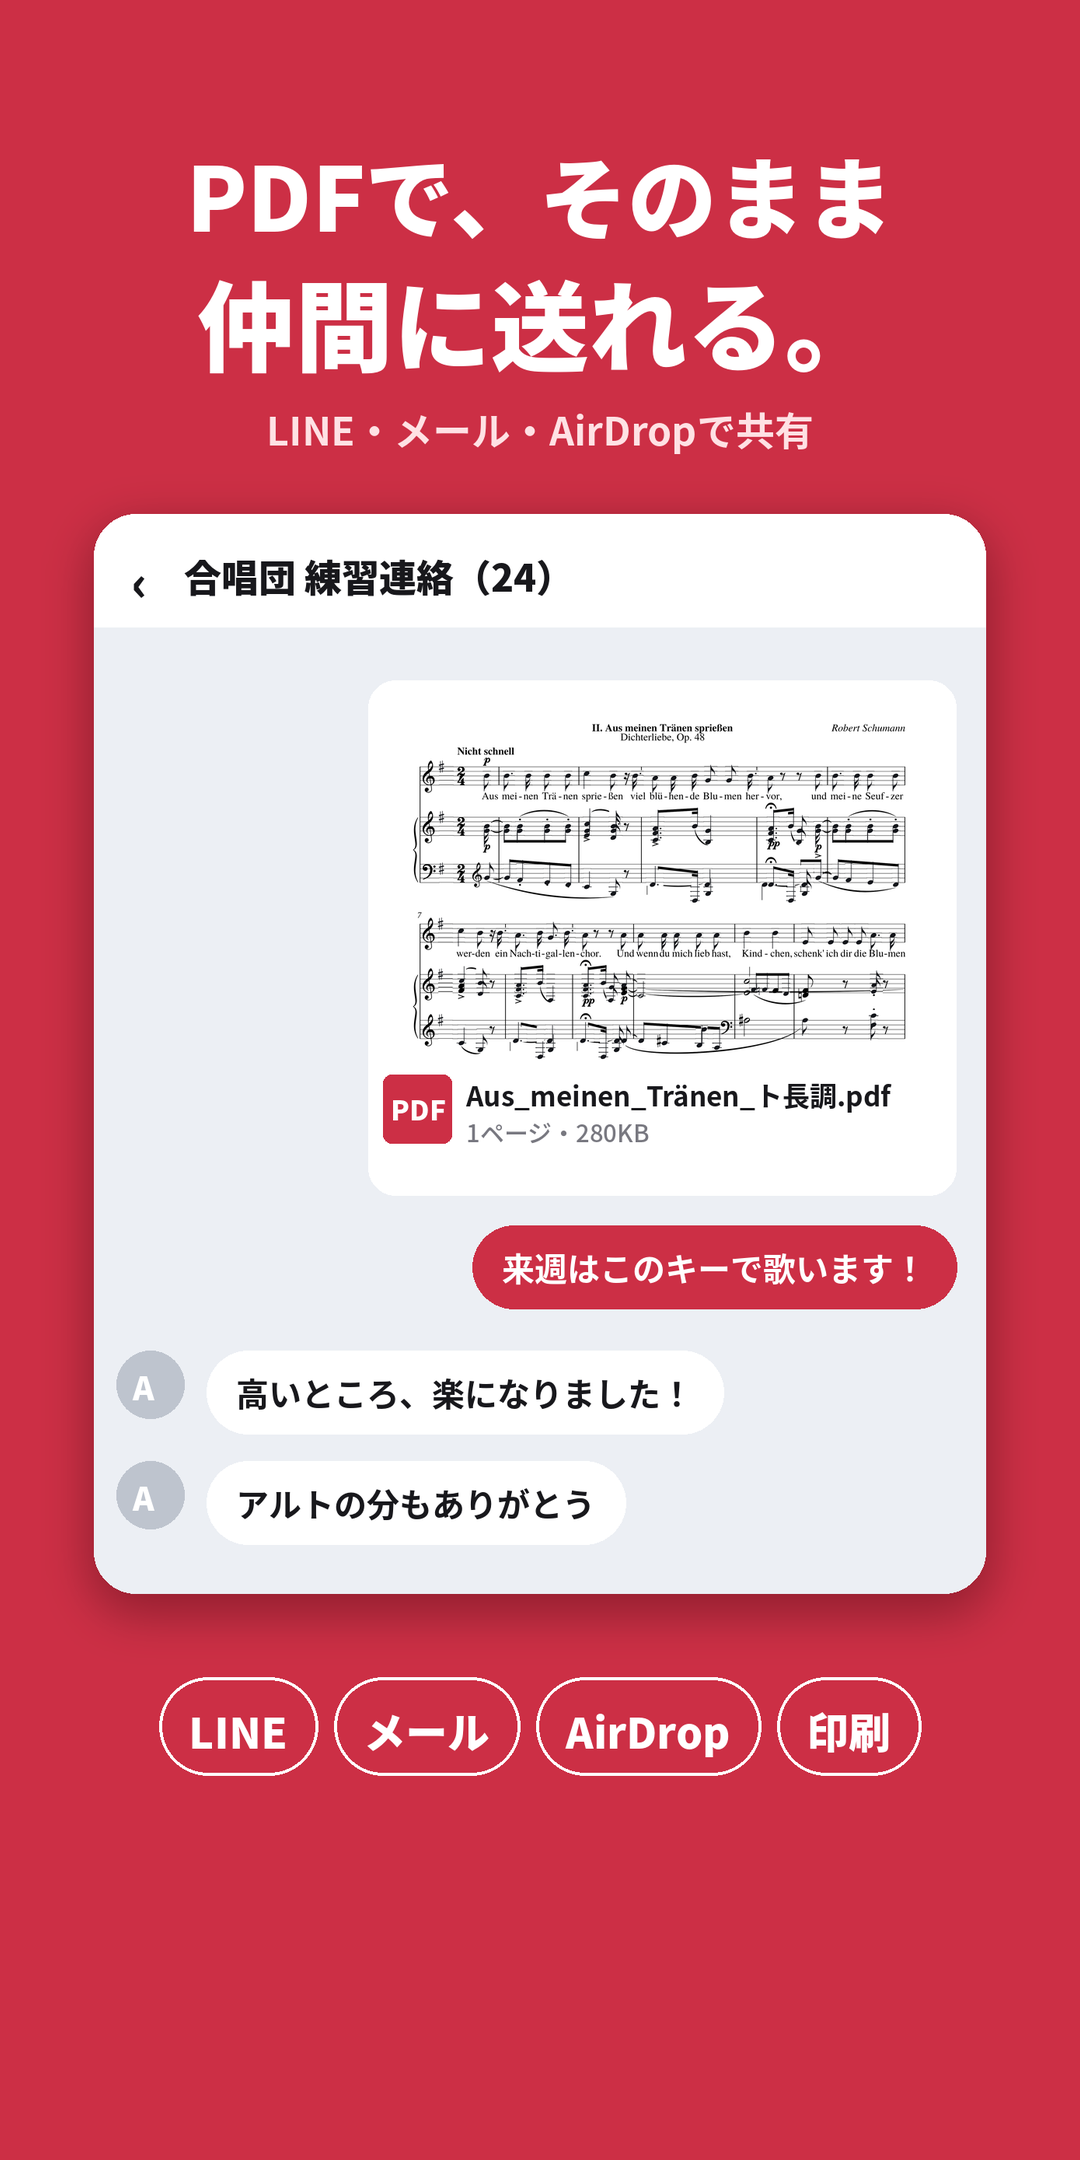
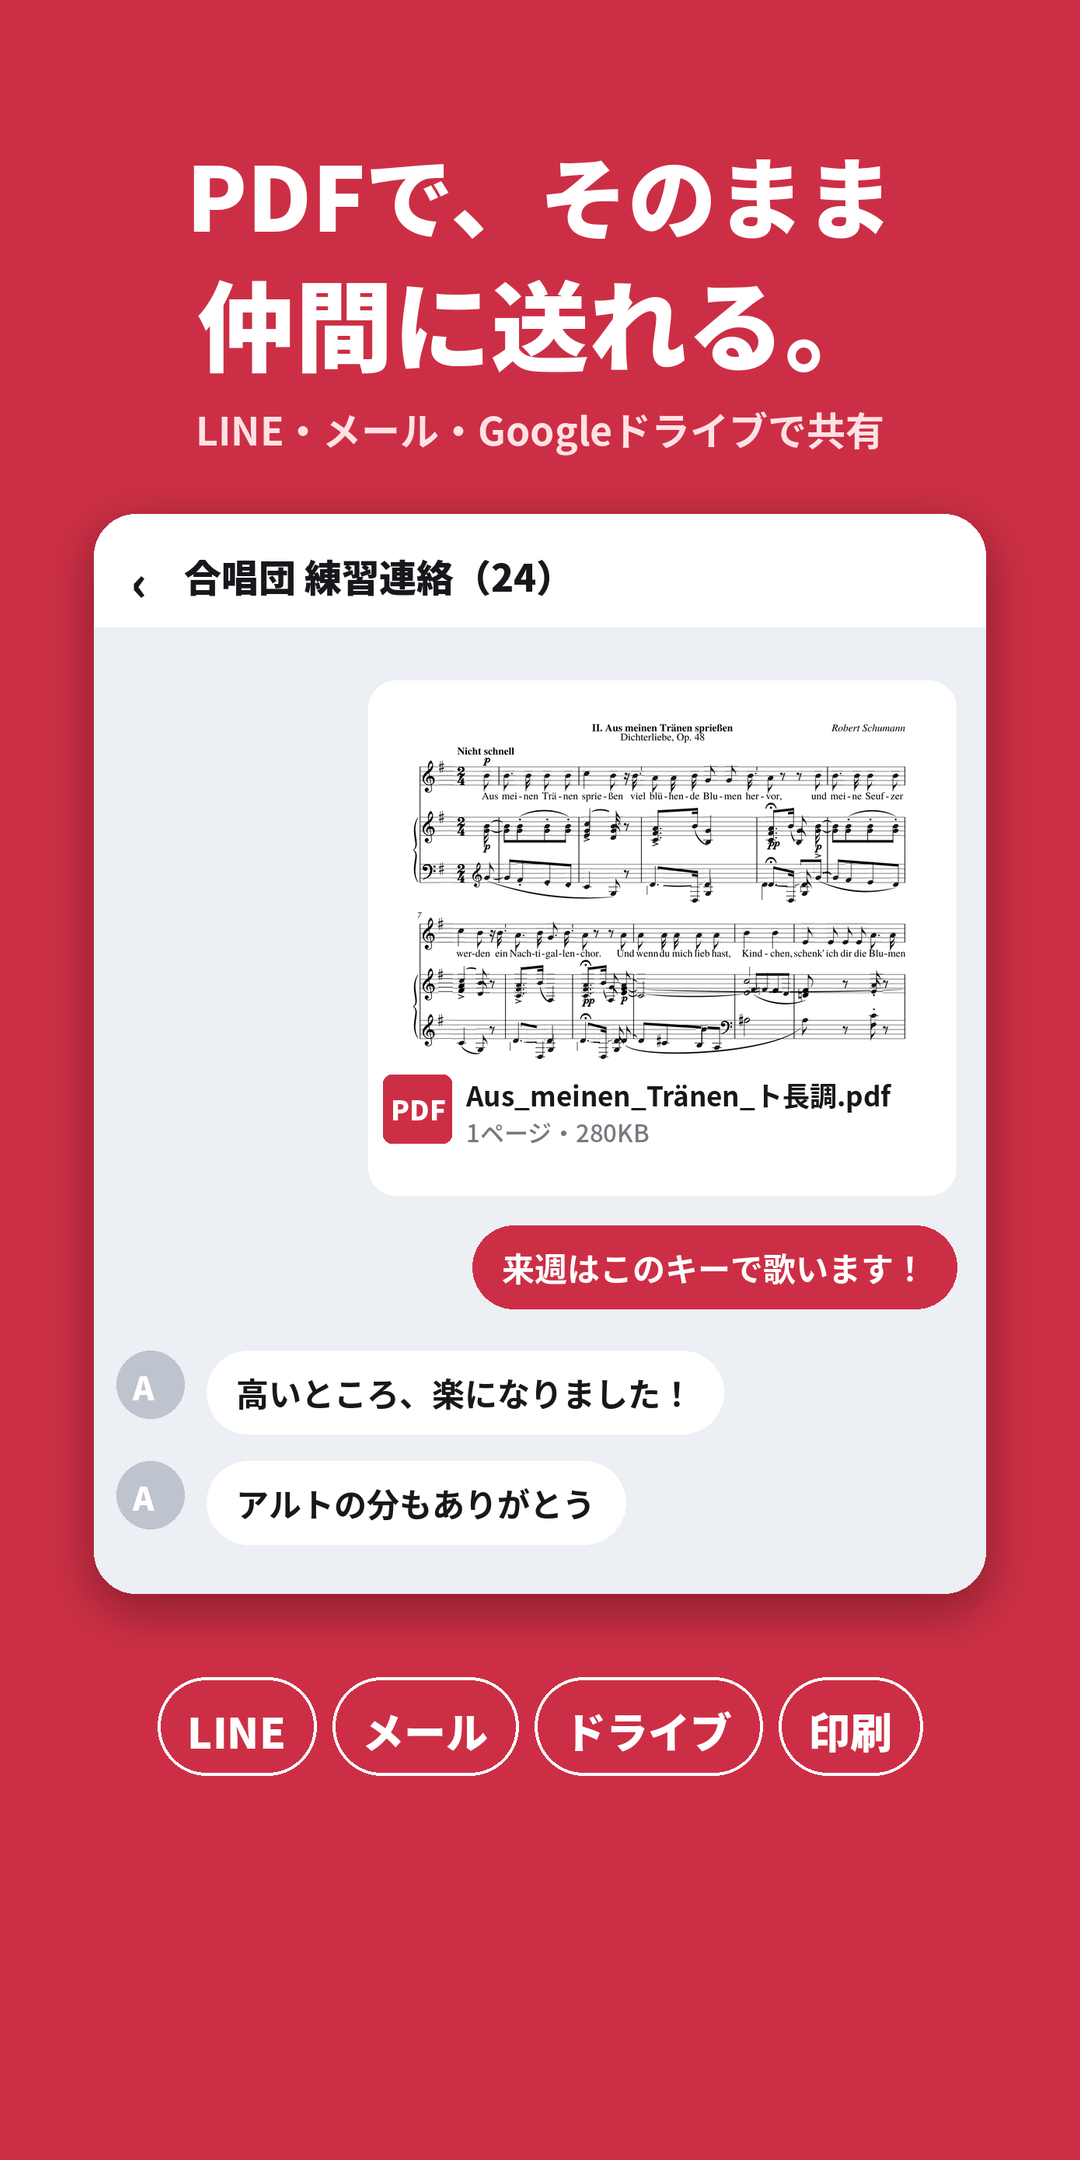
Play listing: Android wording for shots 3/4 (no AirDrop/App Store)
Claude-Session: https://claude.ai/code/session_0132XAgTJ8toTBqkVbeQ5Rt5

diff --git a/app/scripts/shots234.py b/app/scripts/shots234.py
@@ -65,7 +65,7 @@ def shot_parts(W, H, cap):
 
 
 def shot_share(W, H, cap):
-    im, d, S = base(W, H, "PDFで、そのまま", "仲間に送れる。", "LINE・メール・AirDropで共有")
+    im, d, S = base(W, H, "PDFで、そのまま", "仲間に送れる。", "LINE・メール・Googleドライブで共有" if ANDROID else "LINE・メール・AirDropで共有")
     px, py, pw, ph = S(70), S(680), W - S(140), S(1500)
     panel = Image.new("RGB", (pw, ph), (236, 239, 244)); pd = ImageDraw.Draw(panel)
     pd.rectangle((0, 0, pw, S(150)), fill=WHITE)
@@ -97,7 +97,7 @@ def shot_share(W, H, cap):
     panel = panel.crop((0, 0, pw, min(ph, y + S(30))))
     shadow_paste(im, panel, (px, py), r=S(56))
     d = ImageDraw.Draw(im); yb = py + panel.height + S(110)
-    tf = f(SANS_B, S(56)); items = ["LINE", "メール", "AirDrop", "印刷"]
+    tf = f(SANS_B, S(56)); items = ["LINE", "メール", "ドライブ" if ANDROID else "AirDrop", "印刷"]
     ws = [d.textlength(t, font=tf) + S(80) for t in items]; gap = S(22); x = (W - sum(ws) - gap * 3) / 2
     for t, w_ in zip(items, ws):
         d.rounded_rectangle((x, yb, x + w_, yb + S(130)), S(65), outline=WHITE, width=S(5))
@@ -116,10 +116,13 @@ def shot_card(W, H, card):
     return im.convert("RGB")
 
 
+ANDROID = "--android" in sys.argv  # Google Play: no iOS-only wording
+
+
 def main():
-    src, out = sys.argv[1:3]
+    src, out = [a for a in sys.argv[1:] if not a.startswith("--")][:2]
     cap = Image.open(os.path.join(src, "cap_after.png")).convert("RGB")
-    card = Image.open(os.path.join(src, "keycard.png")).convert("RGB")
+    card = Image.open(os.path.join(src, "keycard_android.png" if ANDROID else "keycard.png")).convert("RGB")
     for tag, (W, H) in SIZES.items():
         for name, fn, arg in (("2_parts", shot_parts, cap), ("3_share", shot_share, cap), ("4_card", shot_card, card)):
             p = os.path.join(out, f"phone_{tag}_{name}.png"); fn(W, H, arg).save(p, optimize=True); print("wrote", p)

diff --git a/app/scripts/play-assets.py b/app/scripts/play-assets.py
@@ -60,6 +60,12 @@ def main():
         fit_canvas(f, (1080, 2160)).save(os.path.join(OUT, "phone", os.path.basename(f).replace("phone_6.5inch_", "")))
     for f in sorted(glob.glob(os.path.join(STORE, "screenshots", "pad_13inch_*.png"))):
         fit_canvas(f, (1536, 2048)).save(os.path.join(OUT, "tablet10", os.path.basename(f).replace("pad_13inch_", "")))
+    # Google Play: #3/#4 without iOS-only wording (AirDrop, App Store) — shots234.py --android
+    import subprocess, tempfile
+    with tempfile.TemporaryDirectory() as td:
+        subprocess.run(["python3", os.path.join(ROOT, "app", "scripts", "shots234.py"), os.path.join(STORE, "shot1"), td, "--android"], check=True, capture_output=True)
+        for n in ("3_share", "4_card"):
+            fit_canvas(os.path.join(td, f"phone_6.5inch_{n}.png"), (1080, 2160)).save(os.path.join(OUT, "phone", f"{n}.png"))
     feature()
     print("ok")
 
